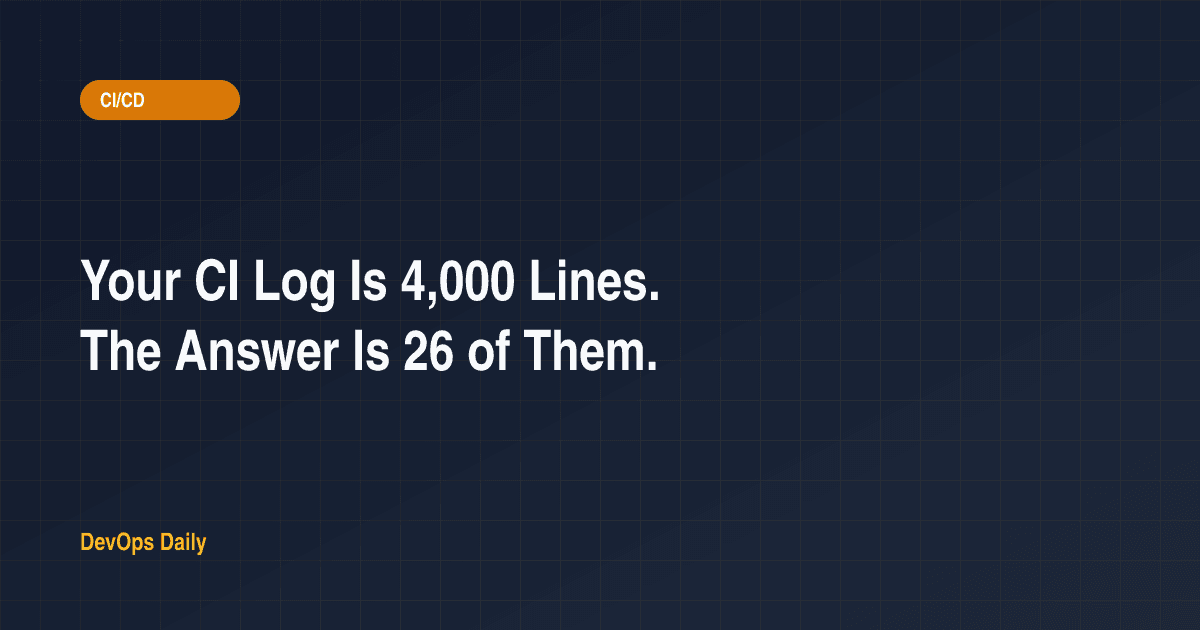
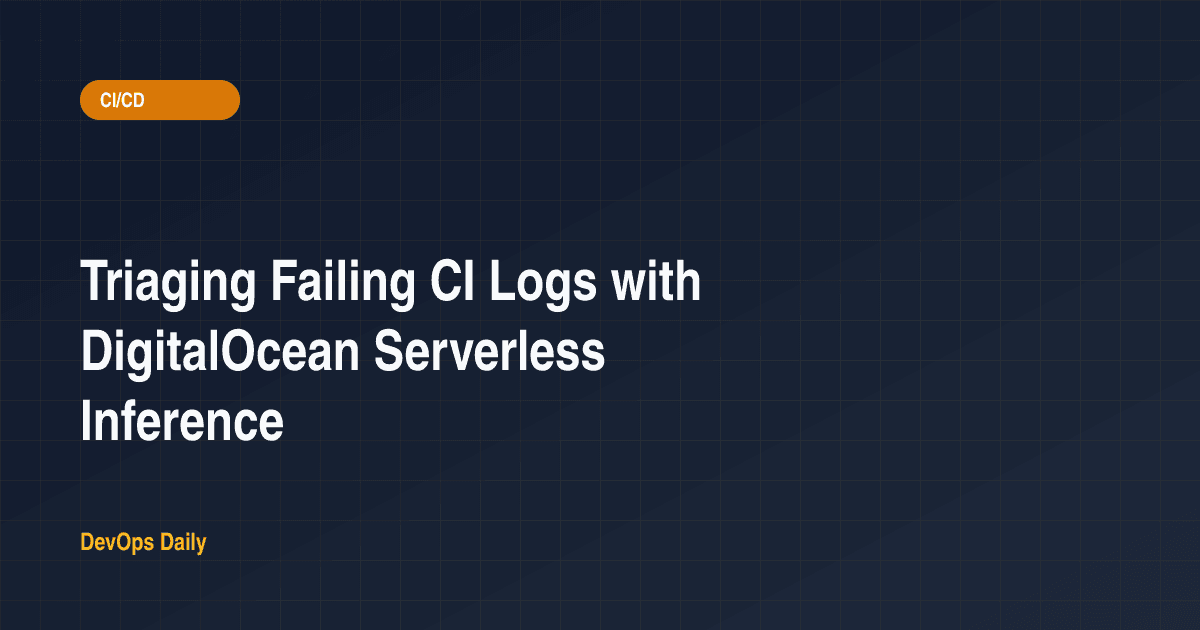
Plainer title, and regenerate the OG image to match

Changed region(s): [[0.0617, 0.3921, 0.5858, 0.6032], [0.0617, 0.6333, 0.2467, 0.7238]]

diff --git a/content/posts/ci-log-triage-digitalocean-inference.md b/content/posts/ci-log-triage-digitalocean-inference.md
@@ -1,5 +1,5 @@
 ---
-title: 'Your CI Log Is 4,000 Lines. The Answer Is 26 of Them.'
+title: 'Triaging Failing CI Logs with DigitalOcean Serverless Inference'
 excerpt: 'We built a GitHub Action that reads a failing job log and tells you what broke, using DigitalOcean serverless inference. The interesting part was not the model call. It was throwing away 92% of the log before sending it.'
 category:
   name: 'CI/CD'
@@ -160,7 +160,7 @@ Rules:
 
 "If the log does not say, write what it would take to find out" is the line that earns its place. Without it you get confident guesses. With it you get a model that says the log is inconclusive, which is a genuinely useful answer.
 
-## The gotcha that cost us an hour
+## The gotcha that looks like a broken API key
 
 Our first call returned HTTP 200, a valid response body, and an empty string.
 
